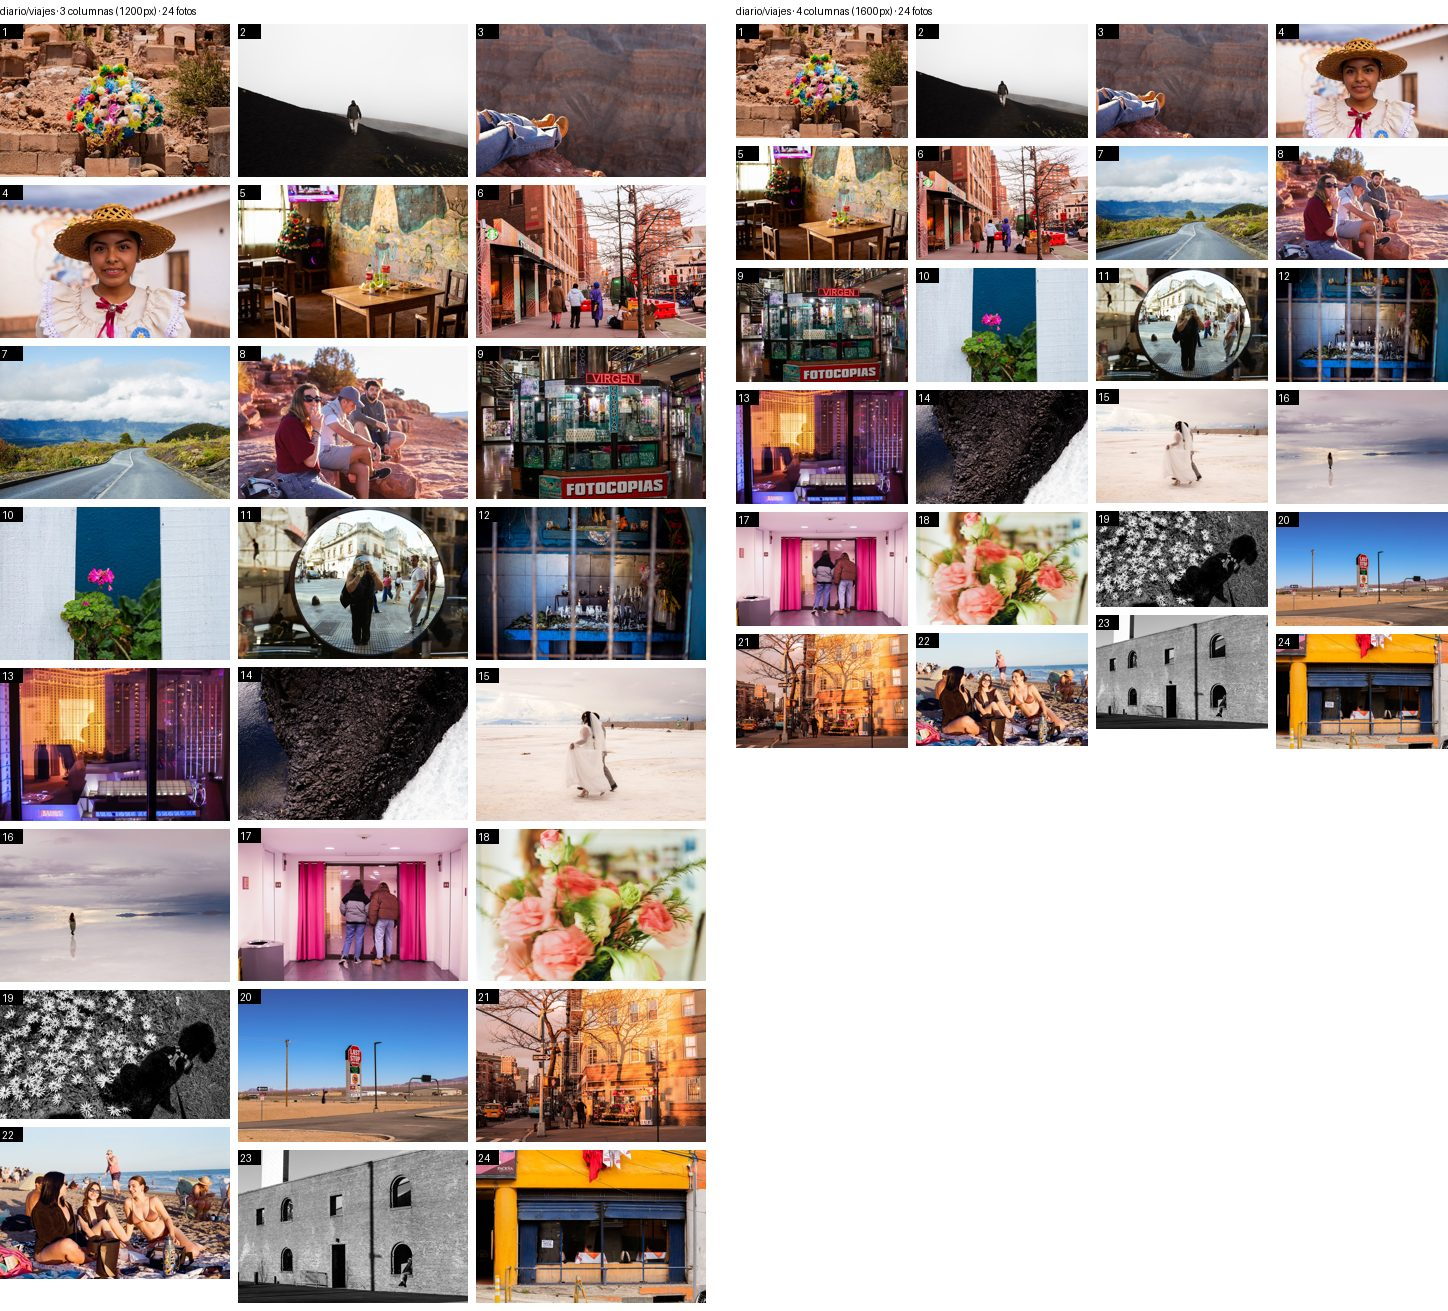
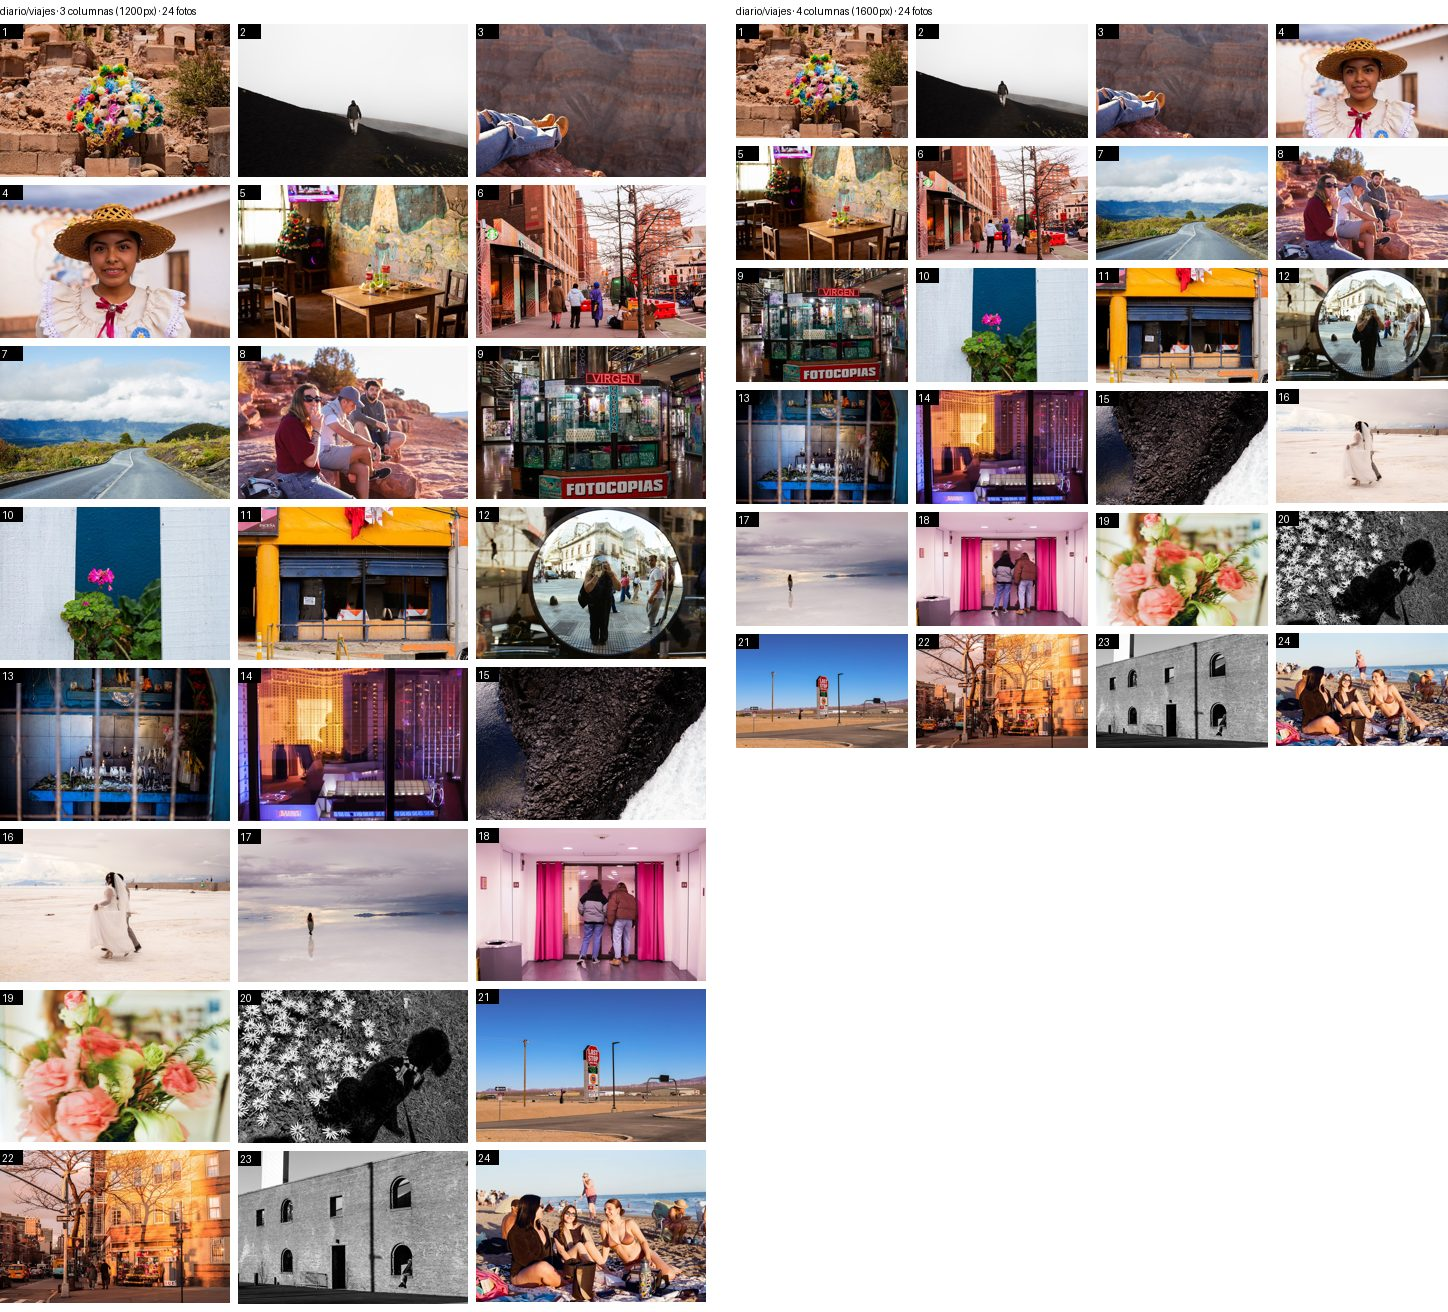
Viajes: fachada amarilla al lugar 11, chicas en la playa debajo del caniche
Posiciones leídas en 4 columnas (pantalla ancha).
- Fachada amarilla de ir al norte (x paz -740) al lugar 11; el resto se corre.
- Chicas en la playa al sol (analogica 000044740009) justo debajo del caniche
  de mar del plata '25: lugares 20 y 24. Cierran el muro; siguen siendo 24.
- Mar del plata '25 (caniche entre flores, 16:9): portada nueva 3:2 recortada
  a la derecha para que el caniche quede entero (1100 px, calidad 80). Sale la
  portada 16:9 anterior. Sin CSS nuevo.
- Dibujo en 3 y 4 columnas en referencias/.
- Cache busting a v=27.

diff --git a/js/data.js b/js/data.js
@@ -476,7 +476,7 @@
     ],
     // Diario > Viajes
     'diario/viajes': [
-      // Se ven 24 (CONFIG.SECTION_LIMIT): las 14 de la lámina y 10 más; a 4 columnas son 6 hileras y cierra con ir al norte azul y amarilla
+      // Se ven 24 (CONFIG.SECTION_LIMIT). Posiciones pensadas en 4 columnas: fachada amarilla de ir al norte en el lugar 11, chicas en la playa (analogica) debajo del caniche de mar del plata, cierran las chicas en el 24
       'ir-al-norte/ir al norte_138.jpg',
       'chile/03.jpg',
       'las-vegas/IMG_1650.jpg',
@@ -487,6 +487,7 @@
       'las-vegas/IMG_1661.jpg',
       'ir-al-norte/ir al norte x paz -761.jpg',
       'chile/19.jpg',
+      'ir-al-norte/ir al norte x paz -740.jpg',
       'analogica/000044730001.jpg',
       'ir-al-norte/ir al norte_25.jpg',
       'las-vegas/IMG_0685.jpg',
@@ -498,9 +499,8 @@
       'mar-del-plata-25/_MG_1660.jpg',
       'las-vegas/IMG_1033.jpg',
       'nyc-en-color/nueva york en color 4.jpg',
-      'analogica/000044740009.jpg',
       'nyc/bcd6c392-bb39-4819-8c98-ba5b1c40bd0b_rw_1920.jpg',
-      'ir-al-norte/ir al norte x paz -740.jpg',
+      'analogica/000044740009.jpg',
       // Resto: no se ve mientras esté el límite
       'nyc/0369fc17-6f33-4f3a-b10b-013e3d68d2de_rw_1920.jpg',
       'las-vegas/IMG_1176.jpg',

diff --git a/index.html b/index.html
@@ -30,7 +30,7 @@
     };
   </script>
   <!-- ?v=N evita que el navegador use una versión vieja guardada: subir el número en cada cambio -->
-  <link rel="stylesheet" href="css/styles.css?v=26">
+  <link rel="stylesheet" href="css/styles.css?v=27">
 </head>
 
 <body class="font-sans antialiased">
@@ -157,9 +157,9 @@
     </div>
   </div>
 
-  <script src="js/content.js?v=26"></script>
-  <script src="js/data.js?v=26"></script>
-  <script src="js/i18n.js?v=26"></script>
-  <script src="js/app.js?v=26"></script>
+  <script src="js/content.js?v=27"></script>
+  <script src="js/data.js?v=27"></script>
+  <script src="js/i18n.js?v=27"></script>
+  <script src="js/app.js?v=27"></script>
 </body>
 </html>

diff --git a/js/content.js b/js/content.js
@@ -5050,12 +5050,12 @@ window.SITE_CONTENT = {
    },
    {
     "type": "image",
-    "src": "assets/diario/viajes/mar-del-plata-25/portadas/015.jpg",
+    "src": "assets/diario/viajes/mar-del-plata-25/portadas/056.jpg",
     "project": "mar-del-plata-25",
     "index": 7,
     "file": "_MG_1660.jpg",
     "w": 1100,
-    "h": 618
+    "h": 734
    },
    {
     "type": "image",
